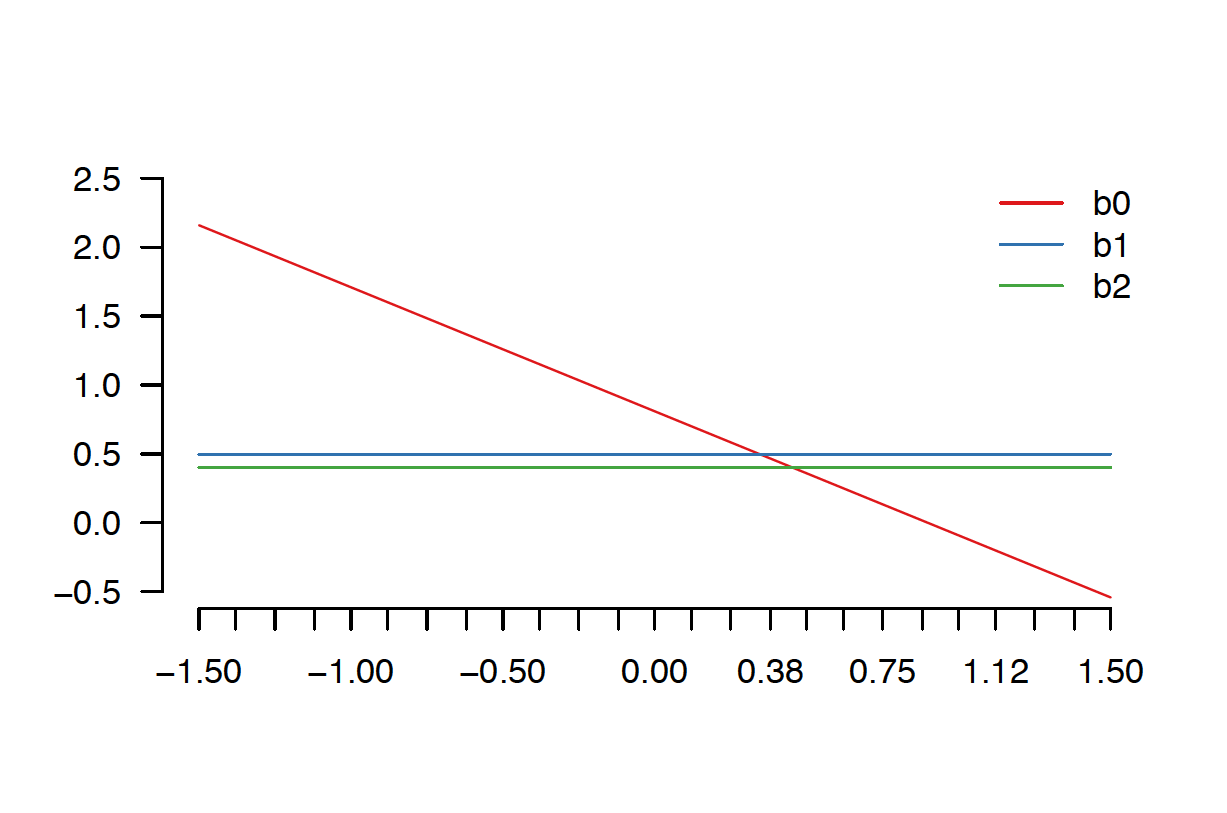
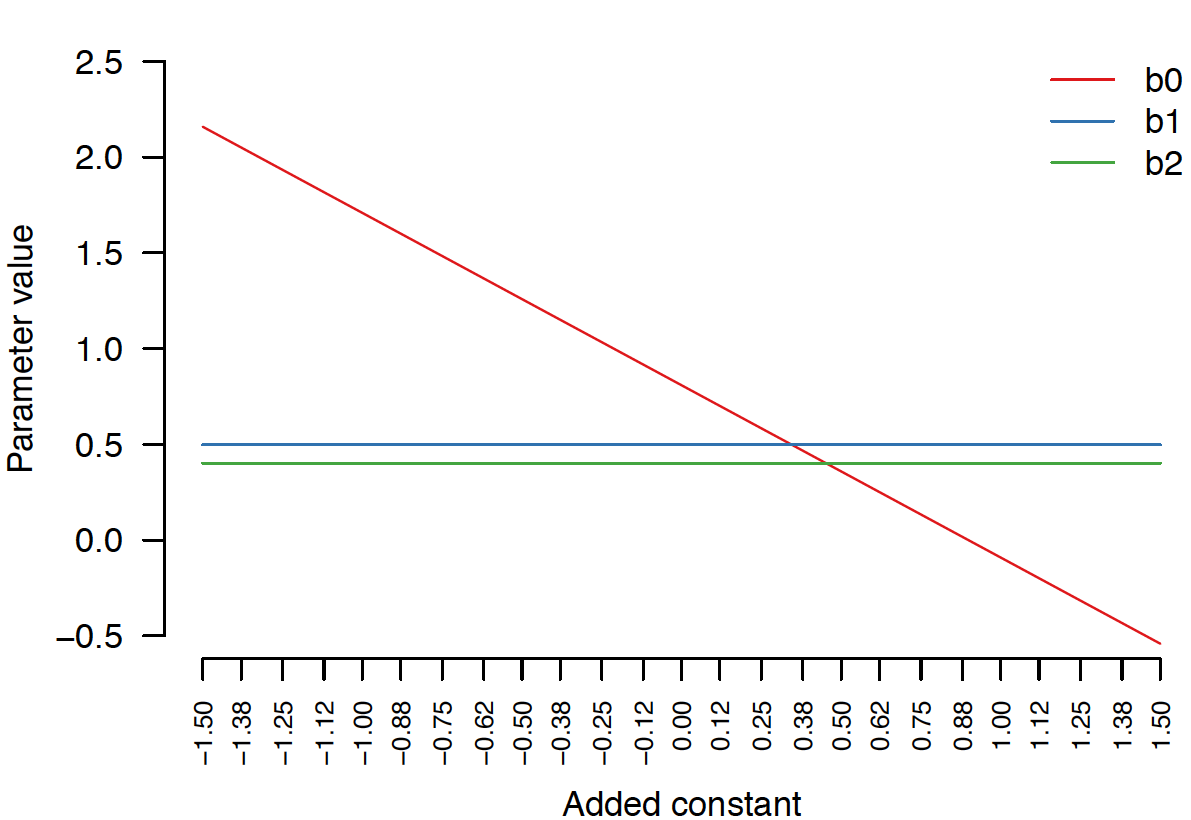
add: centering v27

diff --git a/_posts/2018-05-05-CenteringPredictors.md b/_posts/2018-05-05-CenteringPredictors.md
@@ -199,13 +199,15 @@ cols <- brewer.pal(4, "Set1") # Select nice colors
 
 plot.new()
 plot.window(xlim=range(c_sequence), ylim=c(-.5, 2.5))
-axis(1, round(c_sequence, 2))
+axis(1, round(c_sequence, 2), cex.axis=0.75, las=2)
 axis(2, c(-.5, 0, .5, 1, 1.5, 2, 2.5), las=2)
 lines(c_sequence, A$b0, col = cols[1])
 lines(c_sequence, A$b1, col = cols[2])
 lines(c_sequence, A$b2, col = cols[3])
 legend("topright", c("b0", "b1", "b2"), 
 col = cols[1:3], lty = rep(1,3), bty = "n")
+title(xlab = "Added constant")
+title(ylab = "Parameter value")
 
 {% endhighlight %}
 
@@ -242,7 +244,7 @@ And again we plot all parameters $$\beta_0, \beta_1, \beta_2, \beta_3$$ as a fun
 {% highlight r %}
 plot.new()
 plot.window(xlim=range(c_sequence), ylim=c(-.5, 2.5))
-axis(1, round(c_sequence, 2))
+axis(1, round(c_sequence, 2), cex.axis=0.75, las=2)
 axis(2, c(-.5, 0, .5, 1, 1.5, 2, 2.5), las=2)
 lines(c_sequence, A$b0, col = cols[1])
 lines(c_sequence, A$b1, col = cols[2])
@@ -250,6 +252,8 @@ lines(c_sequence, A$b2, col = cols[3])
 lines(c_sequence, A$b3, col = cols[4])
 legend("topright", c("b0", "b1", "b2", "b3"), 
 col = cols[1:4], lty = rep(1,3), bty = "n")
+title(xlab = "Added constant")
+title(ylab = "Parameter value")
 
 {% endhighlight %}
 
@@ -367,7 +371,7 @@ We plot the predicted parameters by the derived expressions as points on the emp
 {% highlight r %}
 plot.new()
 plot.window(xlim=range(c_sequence), ylim=c(-.5, 2.5))
-axis(1, round(c_sequence, 2))
+axis(1, round(c_sequence, 2), cex.axis=0.75, las=2)
 axis(2, c(-.5, 0, .5, 1, 1.5, 2, 2.5), las=2)
 lines(c_sequence, A$b0, col = cols[1])
 lines(c_sequence, A$b1, col = cols[2])
@@ -381,6 +385,8 @@ points(c_sequence, B$b0, col = cols[1])
 points(c_sequence, B$b1, col = cols[2])
 points(c_sequence, B$b2, col = cols[3])
 points(c_sequence, B$b3, col = cols[4])
+title(xlab = "Added constant")
+title(ylab = "Parameter value")
 
 {% endhighlight %}
 
